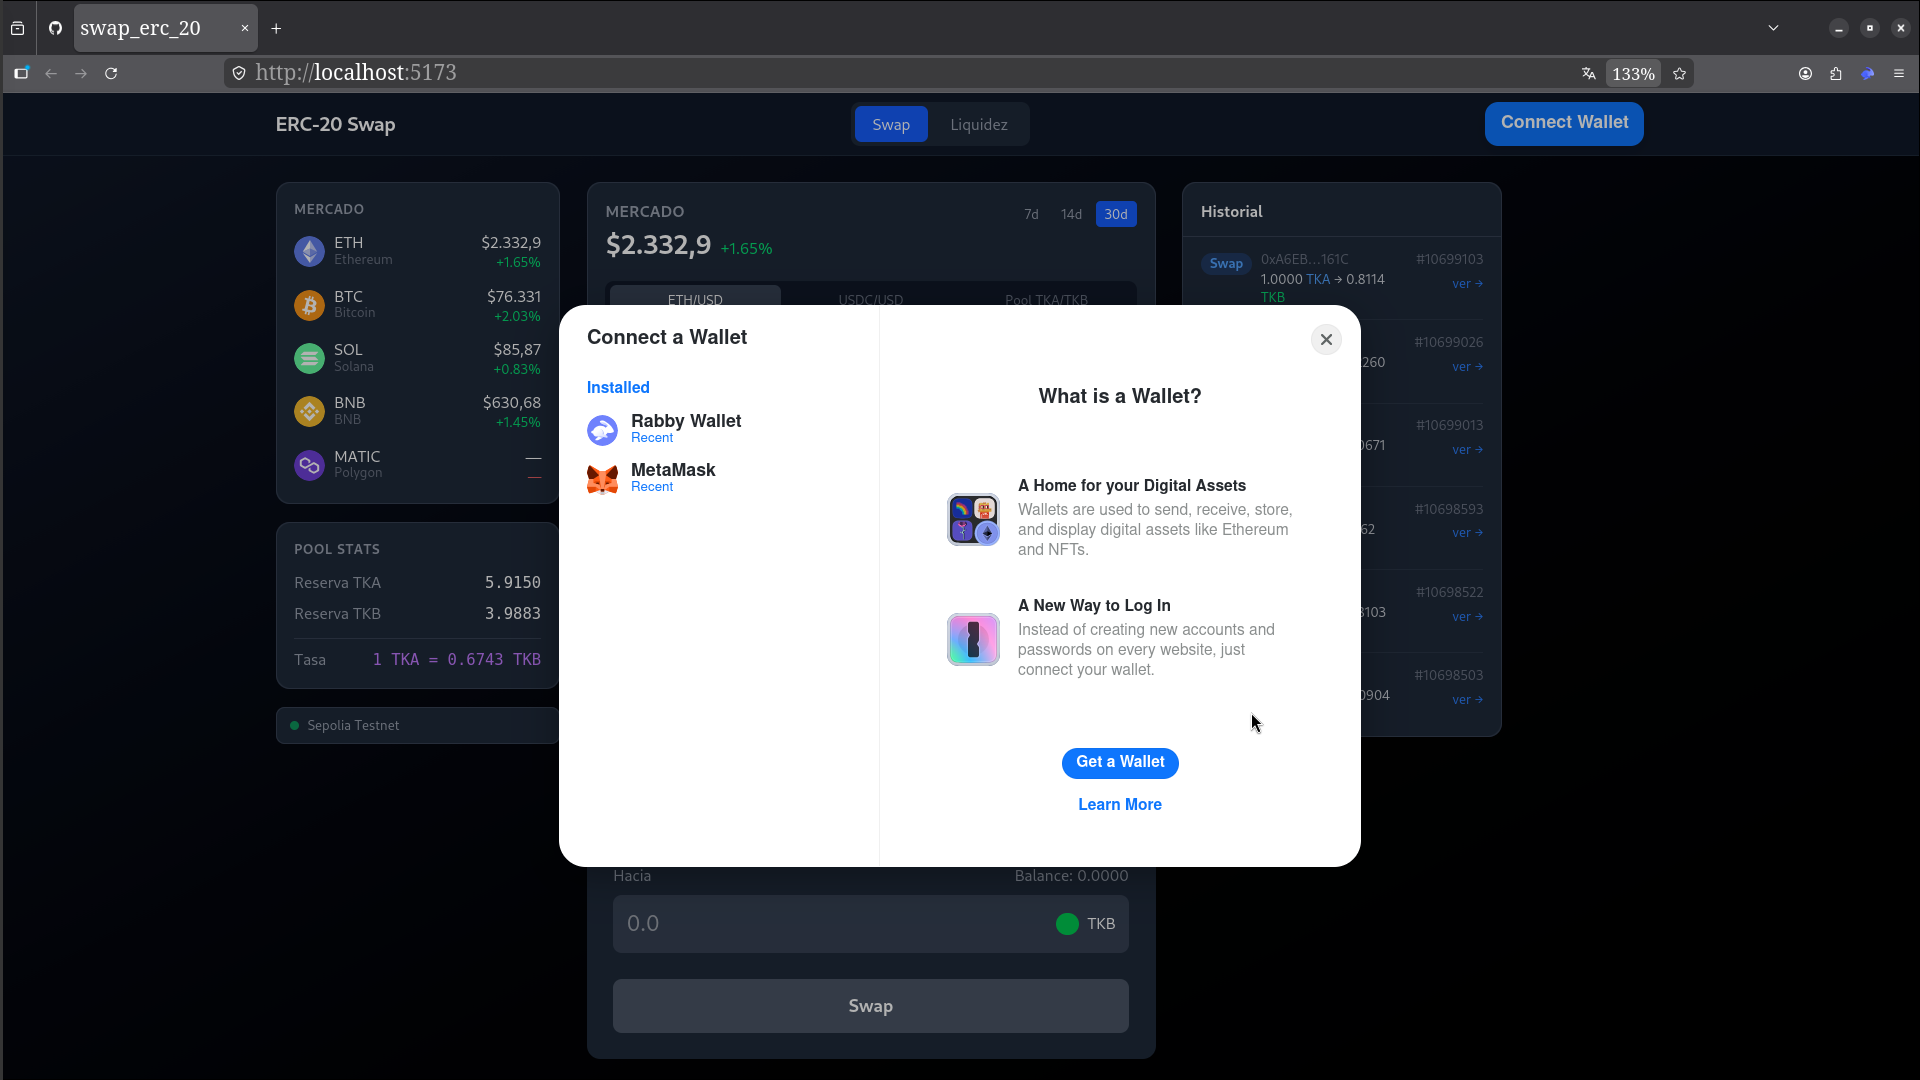
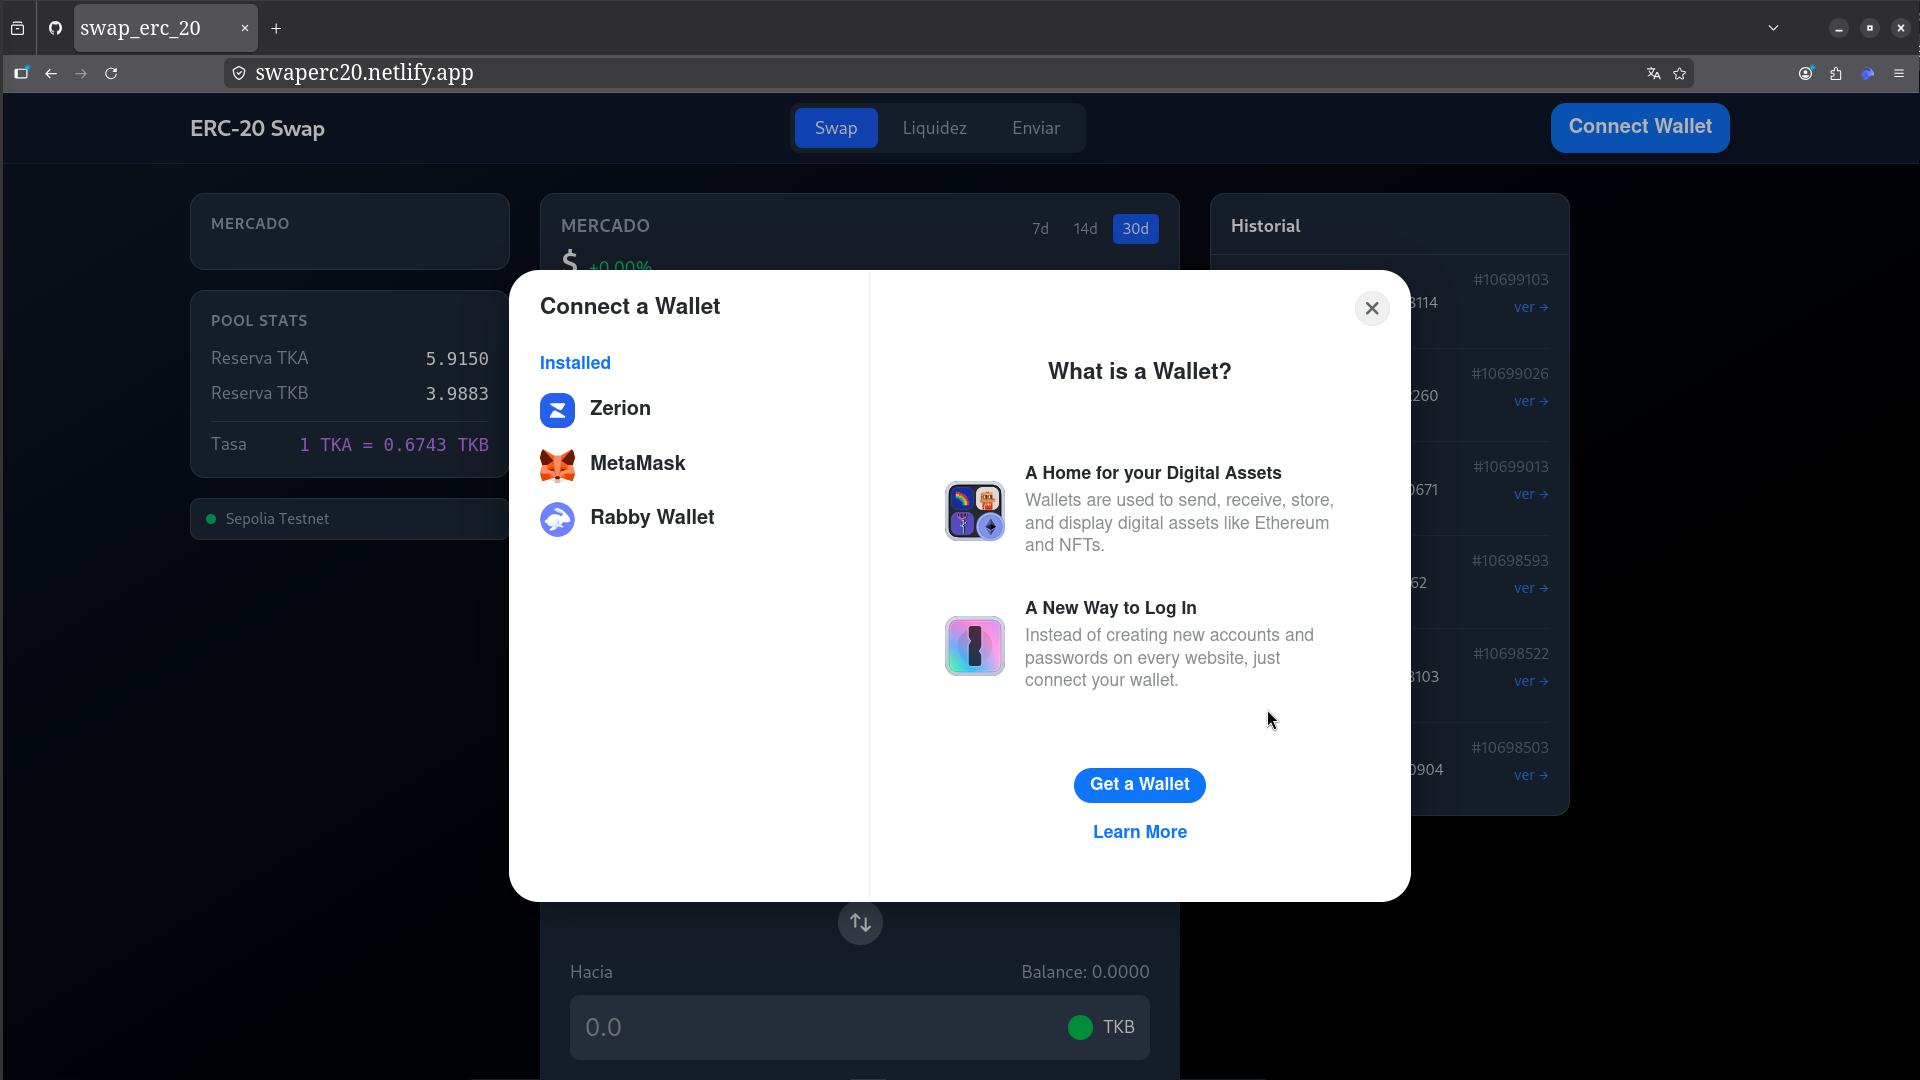
docs: update README screenshots with deployed version

Changed region(s): [[0.0938, 0.0306, 0.9062, 1.0], [0.0938, 0.0611, 0.25, 0.1222], [0.5312, 0.3361, 0.6562, 0.3972]]

diff --git a/README.md b/README.md
@@ -15,17 +15,17 @@ A decentralized exchange (DEX) built with React, Wagmi, and Solidity. Deployed o
 
 ## Screenshots
 
-### Swap
+### Dashboard — connected wallet
 ![Swap](docs/swap.png)
 
-### Liquidity Management
-![Liquidity](docs/liquidity.png)
-
-### Send Tokens
-![Send](docs/send.png)
-
-### Wallet Connection
+### Wallet connection — MetaMask, Zerion, Rabby
 ![Connect](docs/connect.png)
+
+### Approve flow
+![Approve](docs/approve.png)
+
+### Post-swap — updated reserves and history
+![Post-swap](docs/post-swap.png)
 
 ---
 
